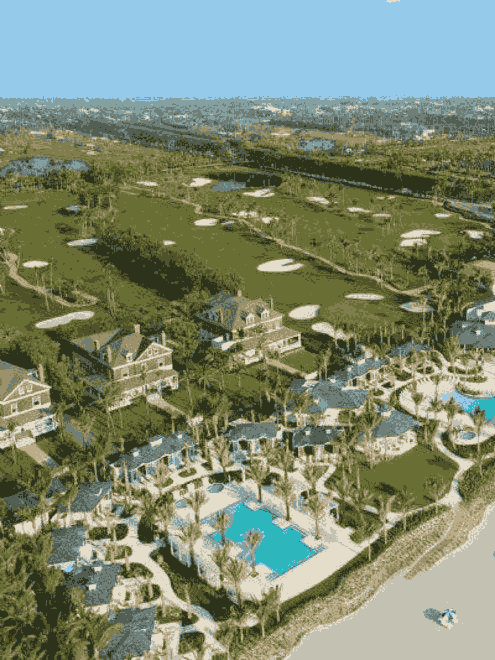
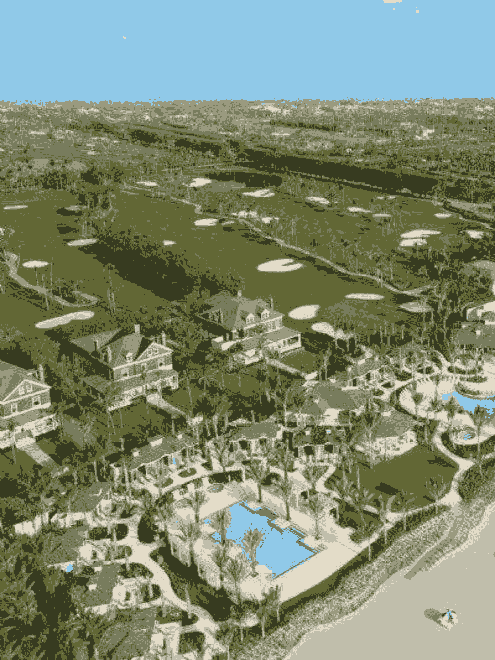
I'm dying

diff --git a/Colorization/main3.py b/Colorization/main3.py
@@ -216,13 +216,9 @@ def kMeansClustering(k, data):
         for i in range(len(C)):
             # print(C[i])
             # print(cOld[i])
-            # if not np.array_equal(C[i], cOld[i]):
-            #     flag = False
-            #     break
-            for j in range(len(C[i])):
-                if abs(C[i][j] - cOld[i][j]) > 3:
-                    flag = False
-                    break
+            if not np.array_equal(C[i], cOld[i]):
+                flag = False
+                break
 
         # for i in range(len(cOld)):
         #     print(C[i])
@@ -311,6 +307,20 @@ def getColors(indexes, coloredImage):
     return colors
 
 
+def getProbabilities(colors):
+    co = [tuple(i) for i in colors]
+    freqDict = Counter(co)
+    probs = dict()
+    mkey = None
+    tot = 0
+    for (key, val) in freqDict.items():
+        tot += val
+    for (key, val) in freqDict.items():
+        probs[key] = val / tot
+    return probs
+
+
+# outputs the majority color
 def majority(colors):
     co = [tuple(i) for i in colors]
     freqDict = Counter(co)
@@ -348,22 +358,34 @@ for i in range(len(trainAvgGray)):
 
 
 # the machine learning model is ready
+print("Start kd tree training")
 temp1 = np.asarray(temp)
 nn = NearestNeighbors(6, algorithm='kd_tree')
 k = nn.fit(temp1)
 
 ans = np.zeros((len(testGray), len(testGray[0]), 3))
-for i in range(len(testGray)):
-    for j in range(len(testGray[0])):
-        test = np.asarray(testGray[i][j])
-        print(test)
-        values, indexs = nn.kneighbors(test.reshape(1, -1), 6)
-        indexes = []
-        for k in indexs[0]:
-            indexes.append(tempIndex[k])
-        # print(indexes)
-        ans[i][j] = majority(getColors(indexes, ima))
-        print(i, j)
+test = np.asarray(testGray[0][0])
+print(test)
+values, indexs = nn.kneighbors(test.reshape(1, -1), 6)
+indexes = []
+for k in indexs[0]:
+    indexes.append(tempIndex[k])
+    # print(indexes)
+ans[0][0] = majority(getColors(indexes, ima))
+print(getProbabilities(getColors(indexes, ima)))
+print(0, 0)
+
+# for i in range(len(testGray)):
+#     for j in range(len(testGray[0])):
+#         test = np.asarray(testGray[i][j])
+#         print(test)
+#         values, indexs = nn.kneighbors(test.reshape(1, -1), 6)
+#         indexes = []
+#         for k in indexs[0]:
+#             indexes.append(tempIndex[k])
+#         # print(indexes)
+#         ans[i][j] = majority(getColors(indexes, ima))
+#         print(i, j)
 
 print(ans)
 print(loss(ans, testRGB))
